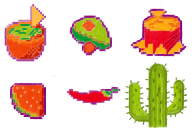
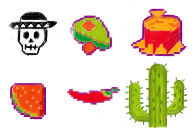
Adapted Objects for Mexico

Changed region(s): [[0.0, 0.0312, 0.3125, 0.5], [0.3438, 0.1875, 0.4062, 0.3125]]

diff --git a/src/map.js b/src/map.js
@@ -1,5 +1,5 @@
 import Game from "./game.js"
-import {Player, Backstein, Pflasterbeige1reg, Pflastergrau1unreg, Pflastergrau2reg, Pflasterbeige2unreg, Sand, Plattenbeige, Macha, Dirtweg, Sakura, Bonsai, Boss, Sushi, Katana, Origami, desertrose, coin, totenkopf, vase, hirschstab, mumie  } from "./game_objects.js"
+import {Player, Backstein, Pflasterbeige1reg, Pflastergrau1unreg, Pflastergrau2reg, Pflasterbeige2unreg, Sand, Plattenbeige, Macha, Dirtweg, Sakura, Bonsai, Boss, Sushi, Katana, Origami, desertrose, coin, totenkopf, vase, hirschstab, mumie, Kaktus, Chilli, Nachos, Avocado, Dia_de_los_Muertos, Taco   } from "./game_objects.js"
 
 /**
  * Diese Klasse liest eine Kartendatei und erstellt die Spiel-Objekte
@@ -51,6 +51,12 @@ export default class Map {
     if ( tileType === "m" ) { new mumie(x, y) }
     if ( tileType === "H" ) { new hirschstab(x, y) }
     if ( tileType === "v" ) { new vase(x, y) }
+    if ( tileType === "k" ) { new Kaktus(x, y) }
+    if ( tileType === "j" ) { new Chilli(x, y) }
+    if ( tileType === "l" ) { new Taco(x, y) }
+    if ( tileType === "p" ) { new Nachos(x, y) }
+    if ( tileType === "A" ) { new Avocado(x, y) }
+    if ( tileType === "D" ) { new Dia_de_los_Muertos(x, y) }
     if ( tileType === "P" ) { Game.player = new Player(x, y)}
     if ( tileType === "Q" ) { Game.player2 = new Player(x, y)}
   }

diff --git a/src/game_objects.js b/src/game_objects.js
@@ -68,7 +68,19 @@ export class GameObject {
 
 }
 
+export class Dia_de_los_Muertos extends GameObject {
+  constructor(x, y) {
+    const ground = document.querySelector("#MexicoObject")
+    super(x, y, {
+      sheet: ground,
+      layer: "world",
+      collisionTags: ["damage"]
+    })
 
+    this.row = 0
+    this.col = 0
+  }
+}
 
 export class Kaktus extends GameObject {
   constructor(x, y) {

diff --git a/src/event_handler.js b/src/event_handler.js
@@ -121,6 +121,10 @@ export class CollisionHandler {
     // Wenn das kollidierende Objekt aus Pickups ist, wird es entfernt.
     if (collidingObject.collisionTags.includes("pickups")) {
       collidingObject.destroy()
+      if (collidingObject instanceof Chilli) {
+        Game.loseLife()
+      }
+      
     }
 
     if (collidingObject.collisionTags.includes("cave")) {
